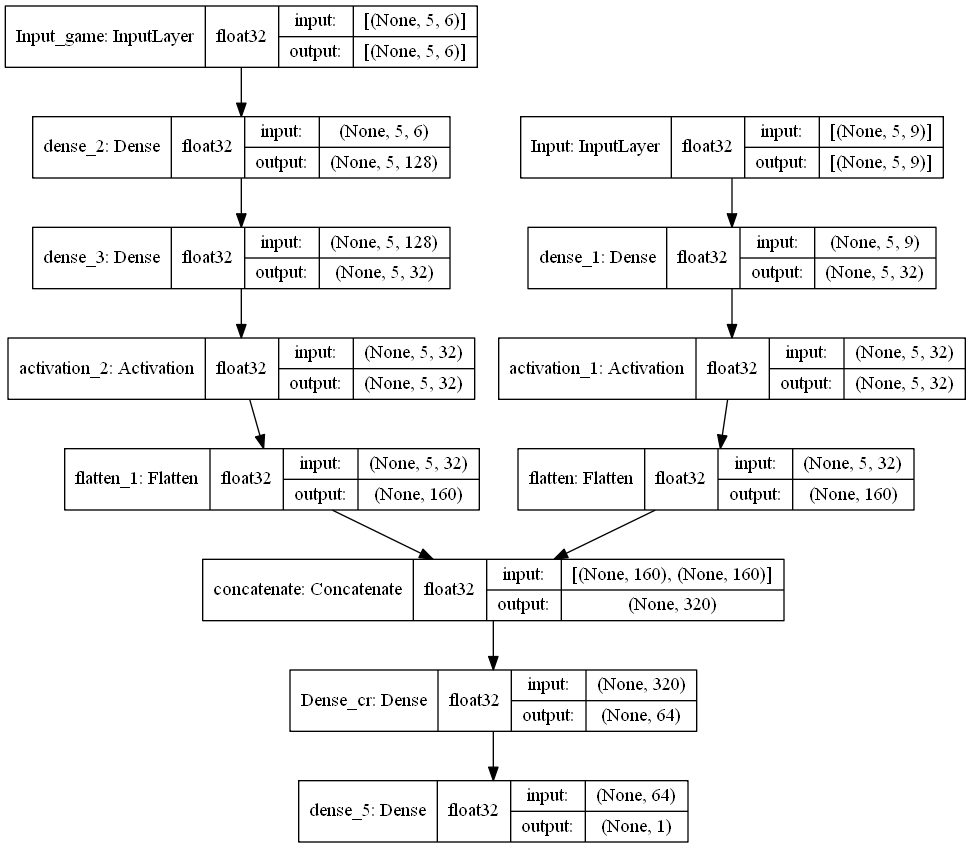
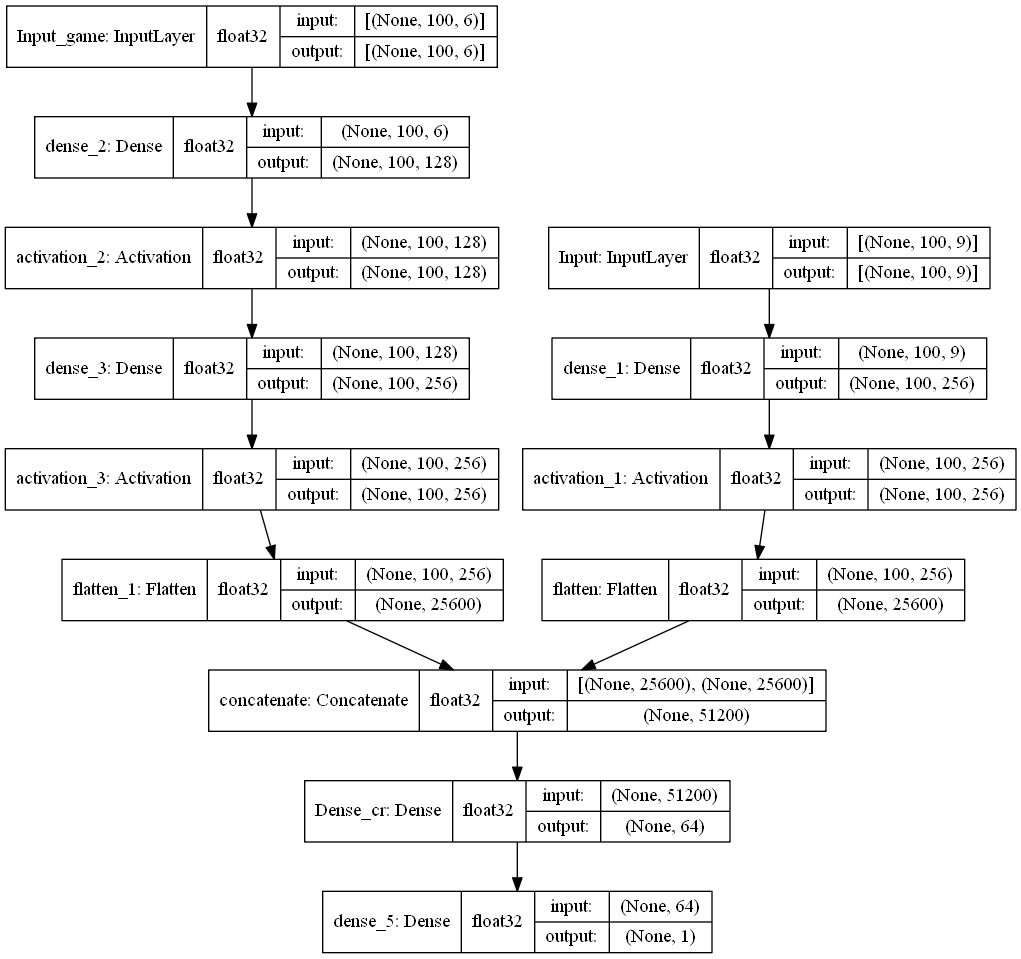
asad

Changed region(s): [[0.0, 0.0, 1.0, 1.0]]

diff --git a/controller.py b/controller.py
@@ -26,26 +26,25 @@ if __name__ == "__main__":
 
     settings = {'batch_size': 64,
                 'num_episodes': 1,
-                'window_size': 10,
+                'window_size': 100,
                 'normalization': False,
                 'buffer_size': int(1e4),
-                'verbose': 0}
+                'verbose': 1}
     num_workers = 1
 
     # Queues
     task_q = mp.JoinableQueue()
     agent_in_q = mp.JoinableQueue()
-    trainer_in_q = mp.JoinableQueue()
     batch_gen_in_q = mp.JoinableQueue()
     distributor_in_q = mp.JoinableQueue()
     result_q = mp.JoinableQueue()
     pipes = [mp.JoinableQueue() for _ in range(num_workers)]
 
     # Processes
-    gen = DataGenerator(symbol="SP500_M1", fraction=[1, 1e4], settings=settings)
+    gen = DataGenerator(symbol="SP500_M1", fraction=[1, 1e6], settings=settings)
     batch_gen = BatchGenerator(in_q=batch_gen_in_q, out_q=agent_in_q, k=num_workers, settings=settings).start()
     distributor = Distributor(in_q=distributor_in_q, pipes=pipes, settings=settings).start()
-    buffer = 1
+    # buffer = ReplayBuffer(settings).start()
     env = Environment(DataGen=gen, settings=settings)
     agent = Agent(env=env, in_q=agent_in_q, out_q=distributor_in_q, settings=settings)
     workers = [Worker(name=str(i),
@@ -54,7 +53,7 @@ if __name__ == "__main__":
                       agent_in_q=agent_in_q,
                       batch_gen_in_q=batch_gen_in_q,
                       pipe=pipes[i],
-                      replay_buffer=buffer,
+                      replay_buffer=1,
                       result_q=result_q,
                       settings=settings) \
                 for i in range(num_workers)]
@@ -69,7 +68,7 @@ if __name__ == "__main__":
     t4 = time.time() 
     print('Time to start workers: ', t4-t3, ' Num workers: ', num_workers)
 
-    for i in range(3):
+    for i in range(5):
         task_q.put('play')
 
     for i in range(num_workers):
@@ -79,13 +78,15 @@ if __name__ == "__main__":
     for w in workers:
         w.join()
 
+    print('Task: ',task_q.get())
     task_q.join()
-    agent_in_q.put(None)
-    agent_in_q.join()
-    trainer_in_q.join()
-    batch_gen_in_q.put(None)
+    print('Agent: ',agent_in_q.get())
+    agent_in_q.terminate()
+    print('Batchgen: ',batch_gen_in_q.get())
+    batch_gen_in_q.put((None, None))
     batch_gen_in_q.join()
-    distributor_in_q.put(None)
+    print('Dist: ', distributor_in_q.get())
+    distributor_in_q.put((None, None))
     distributor_in_q.join()
     result_q.join()
     [pipe.join() for pipe in pipes]

diff --git a/libs/communication.py b/libs/communication.py
@@ -8,25 +8,32 @@ class BatchGenerator(Process):
         self.batch_gen_in_q = in_q
         self.agent_in_q = out_q 
         self.k = k
+        self.verbose = settings['verbose']
     
     def run(self):
         states1 = []
         states2 = []
-
         ns = []
         while True:
             n, state = self.batch_gen_in_q.get()
-            if state == None:
-                break
+            if n == None:
+                states1 = np.reshape(states1, np.shape(states1))
+                states2 = np.reshape(states2, np.shape(states2))
+                self.agent_in_q.put((ns, states1, states2))
+                self.batch_gen_in_q.task_done() 
+                break  
             states1.append(state[0])
             states2.append(state[1])
             ns.append(n)
             if len(ns) >= self.k:
+                states1 = np.reshape(states1, np.shape(states1))
+                states2 = np.reshape(states2, np.shape(states2))
                 self.agent_in_q.put((ns, states1, states2))
                 states1 = []
                 states2 = []
                 ns = []
-                print('Batch generated!')
+                if self.verbose > 1:
+                    print('Batch generated!')
             self.batch_gen_in_q.task_done()     
         print('\nBatch Generator is done!')
         return
@@ -40,13 +47,11 @@ class Distributor(Process):
     
     def run(self):
         while True:
-            ns, policies = self.distributor_in_q.get()
-            print(ns,policies)
-            if policies == None:
+            ns, actions = self.distributor_in_q.get()
+            self.distributor_in_q.task_done()
+            if ns == None:
                 break
             for i in range(len(ns)):
-                actions = np.random.choice(policies[i])
                 self.pipes[int(ns[i])].put(actions[i])
-            self.distributor_in_q.task_done()
         print('Prediciton Queue is done!')
         return

diff --git a/libs/agent.py b/libs/agent.py
@@ -27,18 +27,15 @@ class Agent():
     def run(self):
         while True:
             ns, states1, states2 = self.agent_in_q.get()
-            print(np.shape(states1),np.shape(states2))
             actions = []
-            if states1 == None:
+            if ns == None:
                 break
             if np.random.rand(1,1) > self.epsilon:
                 policy = self.model.actor(inputs=(states1, states2), training=False)
-                print(policy[0])
             else:
                 policy = [[0.7,0.1,0.1,0.1] for _ in range(len(ns))]
                 if self.epsilon > self.epsilon_limit:
-                    self.epsilon *= self.epsilon_decay  #
-            print(policy)
+                    self.epsilon *= self.epsilon_decay  
             for i in range(np.shape(policy)[0]):
                 actions.append(np.random.choice(self.num_actions, p=get_value(policy[i])))
             self.distributor_in_q.put((ns, actions))   

diff --git a/libs/worker.py b/libs/worker.py
@@ -41,12 +41,11 @@ class Worker(Process):
                 while not done:
                     self.batch_gen_in_q.put((self.name, state))
                     action = self.pipe.get()
-                    print(action, 'aaaaaa')
                     next_state, reward, done = self.env.step(action=action, epsilon=0)
                     states.append(next_state)
                     rewards.append(reward)
          
-                self.replay_buffer.add('a','b','c','d')
+                # self.replay_buffer.add('a','b','c','d')
 
             elif next_task == 'train':
                 pass

diff --git a/libs/model.py b/libs/model.py
@@ -28,12 +28,13 @@ class NN(Model):
 
         x = Dense(128, kernel_regularizer=l2(1e3))(state)
         x = Activation('relu')(x)
-        x = Dense(32, kernel_regularizer=l2(1e3))(state)
+        x = Dense(256, kernel_regularizer=l2(1e3))(state)
         x = Activation('relu')(x)
         x = Flatten()(x)
 
         w = Dense(128, kernel_regularizer=l2(1e3))(game)
-        w = Dense(32, kernel_regularizer=l2(1e3))(w)
+        w = Activation('relu')(w)
+        w = Dense(256, kernel_regularizer=l2(1e3))(w)
         w = Activation('relu')(w)
         w = Flatten()(w)
 
